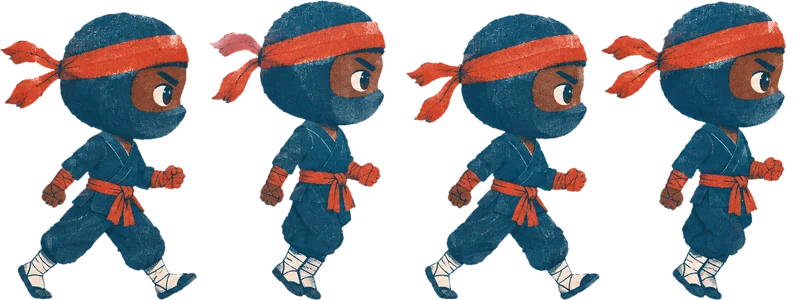
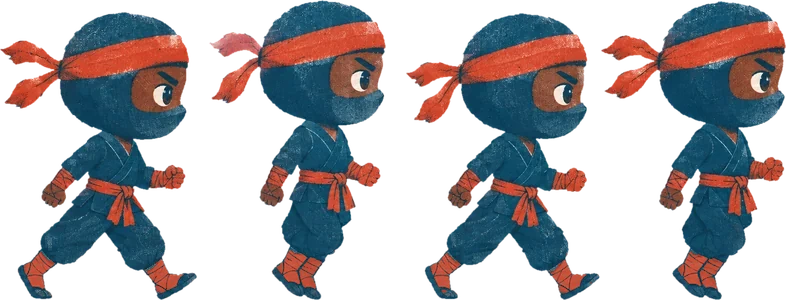
feat(front): mascote aponta para os botões (etapa 3) e faixas vermelhas nas canelas

diff --git a/frontend/landing/v1/landing.js b/frontend/landing/v1/landing.js
@@ -480,6 +480,7 @@
         return;
       }
       if (lado && !lado.getAttribute('src')) lado.src = lado.dataset.src;
+      mascote.classList.remove('aponta', 'aponta-esq');
       mascote.classList.toggle('esquerda', andarAlvo < andarX);
       mascote.classList.add('andando');
       if (!andando) { andando = true; ultimoQuadro = performance.now(); requestAnimationFrame(passo); }
@@ -523,7 +524,7 @@
     var salta = function (ax, p, depois) {
       saltando = true; andando = false; depoisDeAndar = null;
       clearTimeout(tempoAndar); clearTimeout(tempoFeliz);
-      mascote.classList.remove('andando', 'esquerda', 'pula', 'feliz', 'pousa');
+      mascote.classList.remove('andando', 'esquerda', 'pula', 'feliz', 'pousa', 'aponta', 'aponta-esq');
       mascote.classList.add('salta', 'agacha');
       var l = limiteAndar();
       if (!p) ax = limita(ax, 0, l.max);
@@ -567,20 +568,21 @@
       if (!andando && (andarX < t.min - 1 || andarX > t.max + 1)) { salta(andarX, null); return; }
       requestAnimationFrame(segue);
     };
-    /* decide o caminho até o clique em x, em cima do bloco p ou no chão */
-    var planeja = function (x, p) {
+    /* decide o caminho até o clique em x, em cima do bloco p ou no chão;
+       depois (se houver) roda quando ele chega */
+    var planeja = function (x, p, depois) {
       clearTimeout(tempoAndar);
       var l = limiteAndar(), ax = x - l.base - l.largura / 2;
       if (p) {
         var t = topoDe(p), alvo = limita(ax, t.min, t.max);
-        if (apoio === p) { andaAte(alvo); return; }
-        if (apoio) { salta(alvo, p); return; }
+        if (apoio === p) { andaAte(alvo, depois); return; }
+        if (apoio) { salta(alvo, p, depois); return; }
         /* do chão: chega até uns 140 px do ponto e salta na diagonal */
         var pe = limita(andarX, alvo - 140, alvo + 140);
         pe = limita(pe, 0, l.max);
         andaAte(pe, function () {
-          if (topoDe(p).cabe) salta(limita(ax, topoDe(p).min, topoDe(p).max), p);
-          else olhaParaVoce();
+          if (topoDe(p).cabe) salta(limita(ax, topoDe(p).min, topoDe(p).max), p, depois);
+          else (depois || olhaParaVoce)();
         });
         return;
       }
@@ -590,11 +592,11 @@
         if (ax < b.min || ax > b.max) {
           /* anda até a ponta do bloco e pula de lá */
           var borda = ax < b.min ? b.min : b.max;
-          andaAte(borda, function () { salta(borda + (ax < borda ? -40 : 40), null, function () { andaAte(limita(ax, 0, limiteAndar().max)); }); });
-        } else salta(ax, null);
+          andaAte(borda, function () { salta(borda + (ax < borda ? -40 : 40), null, function () { andaAte(limita(ax, 0, limiteAndar().max), depois); }); });
+        } else salta(ax, null, depois);
         return;
       }
-      andaAte(ax);
+      andaAte(ax, depois);
     };
     var olhaParaVoce = function () {
       clearTimeout(olhandoVoce);
@@ -602,13 +604,77 @@
       if (!olhoRodando) { olhoRodando = true; requestAnimationFrame(andaOlho); }
       olhandoVoce = setTimeout(function () { olhandoVoce = null; }, 1600);
     };
-    addEventListener('pointermove', function (e) { if (e.pointerType === 'mouse' && !olhandoVoce) mira(e.clientX, e.clientY); }, { passive: true });
+    /* etapa 3: com o mouse parado meio segundo num botão, ele vai até o lado
+       do botão (subindo no bloco, se o botão estiver dentro de um) e aponta
+       para ele. Só com mouse: no toque não existe "passar por cima". O menu
+       fica de fora, para ele não correr a cada link do topo. */
+    var BOTOES = 'a.botao, .faixa button, .pergunta > button, .simulador button';
+    var apontaImg = mascote.querySelector('.mascote-aponta img');
+    var botaoSob = null, botaoAlvo = null, tempoBotao = null;
+    var temMouse = matchMedia('(hover: hover) and (pointer: fine)').matches;
+    var desaponta = function () {
+      botaoAlvo = null;
+      mascote.classList.remove('aponta', 'aponta-esq');
+    };
+    var aponta = function (b) {
+      if (botaoSob !== b || saltando || andando) return;
+      var r = b.getBoundingClientRect(), m = mascote.getBoundingClientRect();
+      clearTimeout(olhandoVoce); olhandoVoce = null;
+      mascote.classList.remove('pula', 'feliz');
+      mascote.classList.toggle('aponta-esq', r.left + r.width / 2 < m.left + m.width / 2);
+      mascote.classList.add('aponta');
+    };
+    var vaiAoBotao = function (b) {
+      if (saltando) { tempoBotao = setTimeout(function () { vaiAoBotao(b); }, 300); return; }
+      if (apontaImg && !apontaImg.getAttribute('src')) apontaImg.src = apontaImg.dataset.src;
+      botaoAlvo = b;
+      var r = b.getBoundingClientRect(), l = limiteAndar();
+      var p = b.closest(PLATAFORMAS);
+      if (p && !topoDe(p).cabe) p = null;
+      /* se o botão está longe da altura de onde ele pisaria (bem acima do
+         chão ou do bloco), ele sobe no próprio botão e aponta de uma ponta */
+      var c = chao(), pisoY = p ? p.getBoundingClientRect().top : c.y;
+      var noNivel = r.bottom > pisoY - c.altura * 1.3 && r.top < pisoY;
+      if (!noNivel) {
+        /* botão estreito (os dias, as durações): só fica olhando para ele */
+        if (r.width < l.largura * 2.2 || !topoDe(b).cabe) { botaoAlvo = null; return; }
+        p = b;
+      }
+      var faixa = p ? topoDe(p) : { min: 0, max: l.max }, ax;
+      if (p === b) ax = Math.abs(faixa.min - andarX) <= Math.abs(faixa.max - andarX) ? faixa.min : faixa.max;
+      else {
+        /* de pé ao lado do botão, a quase um corpo dele */
+        var folga = l.largura * 0.9;
+        var esq = r.left - folga - l.base - l.largura / 2, dir = r.right + folga - l.base - l.largura / 2;
+        var perto = Math.abs(esq - andarX) <= Math.abs(dir - andarX) ? [esq, dir] : [dir, esq];
+        ax = perto[0] >= faixa.min && perto[0] <= faixa.max ? perto[0]
+          : perto[1] >= faixa.min && perto[1] <= faixa.max ? perto[1]
+          : limita(perto[0], faixa.min, faixa.max);
+      }
+      planeja(ax + l.base + l.largura / 2, p, function () { if (botaoAlvo === b) aponta(b); else olhaParaVoce(); });
+    };
+    if (temMouse && !reduzido) {
+      if (apontaImg) apontaImg.src = apontaImg.dataset.src;
+      document.addEventListener('pointerover', function (e) {
+        if (e.pointerType !== 'mouse') return;
+        var b = e.target instanceof Element ? e.target.closest(BOTOES) : null;
+        if (b && b.closest('.menu')) b = null;
+        if (b === botaoSob) return;
+        botaoSob = b; clearTimeout(tempoBotao);
+        if (!b) { if (mascote.classList.contains('aponta') || botaoAlvo) desaponta(); return; }
+        if (botaoAlvo && botaoAlvo !== b) desaponta();
+        tempoBotao = setTimeout(function () { vaiAoBotao(b); }, 500);
+      });
+    }
+    addEventListener('pointermove', function (e) { if (e.pointerType === 'mouse' && !olhandoVoce && !mascote.classList.contains('aponta')) mira(e.clientX, e.clientY); }, { passive: true });
     /* no toque, os olhos seguem o dedo já no começo do toque */
     addEventListener('pointerdown', function (e) { if (e.pointerType !== 'mouse' && !olhandoVoce) mira(e.clientX, e.clientY); }, { passive: true });
     /* o clique (que não dispara ao rolar a página no celular) é que faz ele reagir */
     addEventListener('click', function (e) {
       var alvo = e.target instanceof Element ? e.target.closest(INTERATIVOS) : null;
       if (saltando) return;
+      if (alvo && mascote.classList.contains('aponta')) return; /* apontando: só segue apontando */
+      if (!alvo) desaponta();
       var bloco = !alvo && !reduzido && e.target instanceof Element ? e.target.closest(PLATAFORMAS) : null;
       if (bloco && !topoDe(bloco).cabe) bloco = null;
       if (andando) { if (!alvo) { mira(e.clientX, e.clientY); planeja(e.clientX, bloco); } return; }

diff --git a/frontend/landing/v1/landing.css b/frontend/landing/v1/landing.css
@@ -529,6 +529,15 @@ body::before { content: ""; position: fixed; inset: 0 0 auto; height: env(safe-a
 .mascote.andando .mascote-corpo { visibility: hidden; }
 .mascote.esquerda .mascote-lado { transform: scaleX(-1); }
 @keyframes mascote-passo { to { transform: translateX(-100%); } }
+/* etapa 3: apontando para um botão. O desenho (270 × 300, olhos já
+   desenhados olhando para a mão) tem a cabeça em x = 129,9, alinhada com a
+   do desenho de frente (66 de 185). Para a esquerda, espelha na cabeça. */
+.mascote-aponta { position: absolute; bottom: 0; left: -34.54%; width: 145.95%; height: 100%; display: none; transform-origin: 48.1% 100%; }
+.mascote-aponta img { width: 100%; height: 100%; }
+.mascote.aponta .mascote-aponta { display: block; animation: mascote-aponta .22s ease-out; }
+.mascote.aponta .mascote-corpo { visibility: hidden; }
+.mascote.aponta.aponta-esq .mascote-aponta { transform: scaleX(-1); }
+@keyframes mascote-aponta { from { opacity: .4; translate: 0 2px; } }
 /* salto grande até um bloco (o arco é feito no JS): agacha (.2s), voa (o
    tempo vem do JS em --mascote-voo) e amortece na chegada, soltando fumaça.
    A fumaça da saída é uma cópia que fica no chão (.mascote-rastro). */

diff --git a/frontend/landing/v1/index.html b/frontend/landing/v1/index.html
@@ -345,6 +345,7 @@
    </div>
   </div>
   <div class="mascote-lado"><img data-src="../../img/mascote/ninja-andando.webp" alt="" width="800" height="300"></div>
+  <div class="mascote-aponta"><img data-src="../../img/mascote/ninja-aponta.webp" alt="" width="270" height="300"></div>
 </div>
 </body>
 </html>

diff --git a/docs/icones-3d.md b/docs/icones-3d.md
@@ -12,7 +12,7 @@ originais em resolução cheia ficam nesse arquivo do Figma; o repositório guar
 | `img/modalidades/` | um ícone por modalidade que não usa um da base |
 | `img/envelope/` | o envelope das telas de senha, em camadas: `aba`, `interior`, `bolso` e a `chave` da carta |
 | `img/landing/` | as ilustrações em gravura da landing: `mao-faixa`, `mao-tigela`, `onda` e uma mão por modalidade da faixa (`mao-muay-thai`, `mao-boxe`, `mao-musculacao`, `mao-corrida`, `mao-futebol`, `mao-natacao`, `mao-ciclismo`, `mao-volei`, `mao-danca`) |
-| `img/mascote/` | o mascote ninja da landing, de frente e **sem os olhos** (`ninja.webp`, 185 × 300): os olhos são SVG no `index.html`, para seguirem o mouse; e de lado, andando (`ninja-andando.webp`, tira de 4 quadros de 200 × 300, virado para a direita) |
+| `img/mascote/` | o mascote ninja da landing, de frente e **sem os olhos** (`ninja.webp`, 185 × 300): os olhos são SVG no `index.html`, para seguirem o mouse; de lado, andando (`ninja-andando.webp`, tira de 4 quadros de 200 × 300, virado para a direita); e apontando para a direita (`ninja-aponta.webp`, 270 × 300, com os olhos desenhados olhando para a mão) |
 
 O ninja foi gerado no Figma no estilo **riso** (impressão em duas tintas, vermelho-carimbo e azul-petróleo, com
 grão e meio-tom; pele negra feita pela sobreposição das duas tintas, rosto coberto até o nariz). Os olhos foram
@@ -24,6 +24,11 @@ A caminhada foi gerada de uma vez só, como uma tira de 4 quadros no mesmo estil
 passagem), para o personagem sair igual nos quatro. Os quadros foram recortados com a mesma escala, os pés no
 chão e o centro da cabeça alinhado em x = 115, que o CSS casa com o centro da cabeça do desenho de frente (66,9
 de 185). Para a esquerda, o CSS espelha a tira.
+
+O desenho apontando foi gerado à parte, no mesmo estilo, e reduzido para a mesma altura de 300; a cabeça fica em
+x = 129,9, que o CSS casa com a do desenho de frente. As faixas das canelas são vermelhas nos três desenhos: no de
+frente (que vinha sem faixa) e na caminhada (que vinha com faixas brancas), elas foram repintadas com as cores da
+própria faixa da cintura, casando o claro e o escuro de cada pixel, para manter o grão do riso.
 
 Cinco modalidades usam um ícone da base: Jiu-jitsu → `quimono`, Muay thai → `bandagem`, Boxe → `luva`,
 Musculação → `halter` e Natação → `oculos`. As outras 21 têm o arquivo com o nome da modalidade, sem acento
